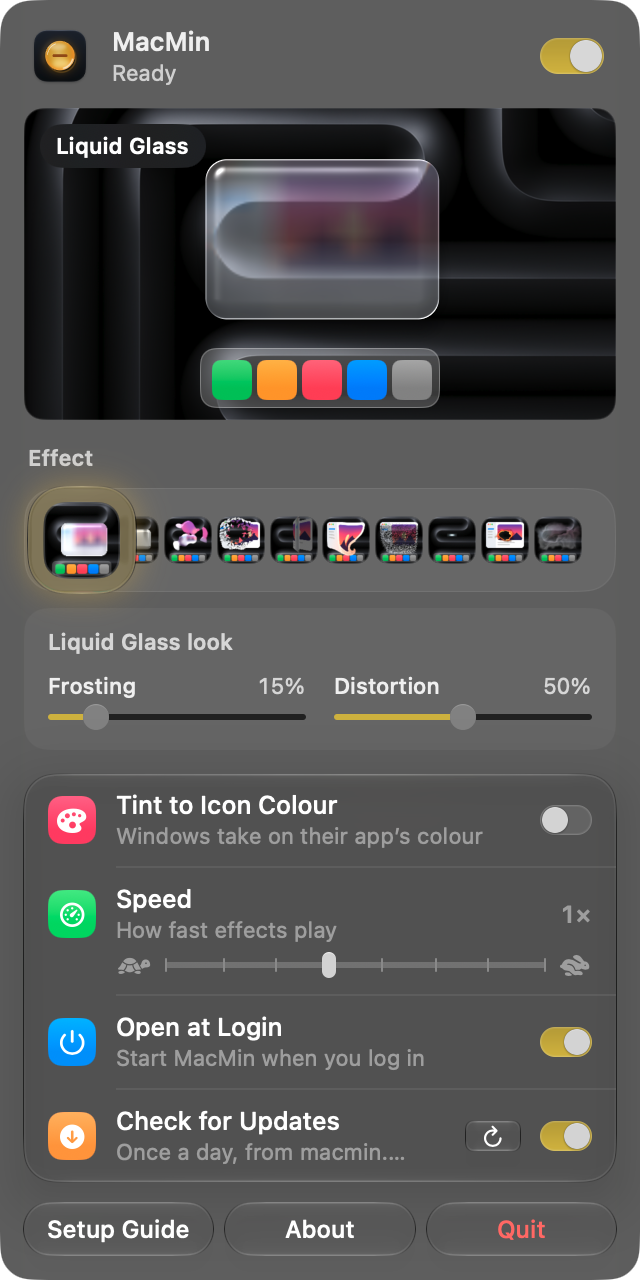
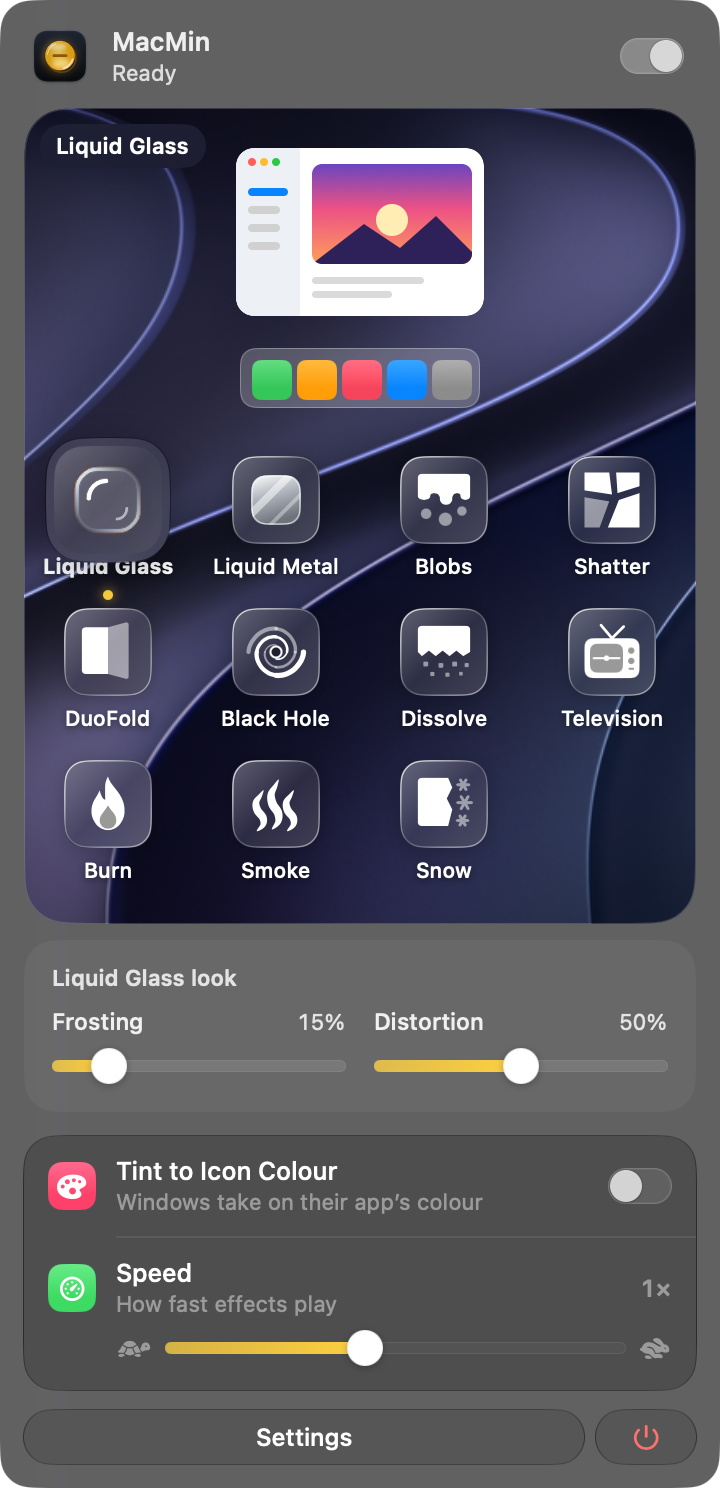
Free week, Pro key FAQ, no effect counts, updates in Settings, new menu screenshots

diff --git a/index.html b/index.html
@@ -4,13 +4,13 @@
   <meta charset="utf-8">
   <meta name="viewport" content="width=device-width, initial-scale=1">
   <title>MacMin · Minimize animations for macOS</title>
-  <meta name="description" content="Genie and Scale have been the only minimize animations on the Mac since 2001. MacMin adds eleven new ones. Liquid Glass and Liquid Metal are free, and Pro unlocks the rest for $5, once. A tiny menu bar app for macOS 14 and later.">
+  <meta name="description" content="Genie and Scale have been the only minimize animations on the Mac since 2001. MacMin adds a whole bunch of new ones. Try them all free for a week. After that, Liquid Glass and Liquid Metal stay free, and Pro unlocks the rest for $5, once. A tiny menu bar app for macOS 14 and later.">
   <meta name="color-scheme" content="light dark">
   <meta name="theme-color" content="#f0a83a">
   <link rel="icon" type="image/png" href="media/favicon.png">
   <link rel="apple-touch-icon" href="media/apple-touch-icon.png">
   <meta property="og:title" content="MacMin · Minimizing should be cool">
-  <meta property="og:description" content="Genie and Scale, since 2001. That’s it. That’s the list. MacMin adds eleven new minimize animations to your Mac. Two are free.">
+  <meta property="og:description" content="Genie and Scale, since 2001. That’s it. That’s the list. MacMin adds a whole bunch of new minimize animations to your Mac. Liquid Glass and Liquid Metal are free.">
   <meta property="og:image" content="https://macmin.studiographic.ca/media/og.jpg">
   <meta property="og:url" content="https://macmin.studiographic.ca/">
   <meta name="twitter:card" content="summary_large_image">
@@ -46,8 +46,8 @@
       </button>
       <div class="menu-drop" id="menuDrop" hidden>
         <picture>
-          <source srcset="media/menu-dark.png" media="(prefers-color-scheme: dark)">
-          <img src="media/menu-light.png" alt="The MacMin menu: a live preview of the current effect, all eleven effects in a row under a glass magnifier, a setting or two for the chosen effect, and its options: Tint to Icon Colour, Speed, Open at Login and Check for Updates" width="320" height="640">
+          <source srcset="media/menu-dark.png?v=2" media="(prefers-color-scheme: dark)">
+          <img src="media/menu-light.png?v=2" alt="The MacMin menu: a live preview of the current effect, every effect as an icon under a glass magnifier, a setting or two for the chosen effect, Tint to Icon Colour and Speed" width="360" height="744">
         </picture>
         <p>This is the whole app. It lives up here, in your menu bar.</p>
       </div>
@@ -69,10 +69,10 @@
       <p class="lede">Genie and Scale have been the only options since 2001. MacMin turns your windows to liquid glass and pours them into the Dock. Press <kbd>⌘M</kbd> or the yellow button like you always do.</p>
       <div class="cta">
         <a class="btn" href="#buy">Download MacMin · free</a>
-        <a class="btn btn-quiet" href="#effects">See all eleven</a>
+        <a class="btn btn-quiet" href="#effects">See them all</a>
       </div>
       <ul class="perks" aria-label="What you get">
-        <li>Free download</li><li>Liquid Glass and Liquid Metal, free forever</li><li>All eleven for $5, once</li><li>No subscription</li>
+        <li>Free download</li><li>Every effect free for your first week</li><li>Liquid Glass and Liquid Metal, free forever</li><li>Every effect for $5, once</li><li>No subscription</li>
       </ul>
       <p class="fine">For macOS 14 Sonoma or later · Apple silicon and Intel (<a href="#compat">will it run on mine?</a>)</p>
       <button class="send-link" type="button" data-share hidden>On your phone? Send this page to your Mac</button>
@@ -112,7 +112,7 @@
           <li class="hx-stop first plus"><span class="hx-year">2001</span><span class="hx-title">Cheetah</span><span class="hx-note">Genie and Scale debut. Honestly? Mind-blowing. In 2001.</span></li>
           <li class="hx-stop gap"><span class="hx-year">2003–2024</span><span class="hx-title">Panther to Sequoia</span><span class="hx-note">Exposé, Spaces, Dark Mode, Stage Manager, window tiling. Minimizing? Same two ways.</span></li>
           <li class="hx-stop"><span class="hx-year">2025</span><span class="hx-title">Tahoe</span><span class="hx-note">Liquid Glass, everywhere. Hit minimize and… it’s the Genie.</span></li>
-          <li class="hx-stop now plus"><span class="hx-year">Now</span><span class="hx-title">MacMin</span><span class="hx-note">Eleven new ones. Glass, chrome, fire, snow, black holes.</span></li>
+          <li class="hx-stop now plus"><span class="hx-year">Now</span><span class="hx-title">MacMin</span><span class="hx-note">A whole bunch of new ones. Glass, chrome, fire, snow, black holes.</span></li>
         </ol>
         <p class="hx-coda">Twenty-five years, two animations. <span>Bring minimize animations into the… present?</span></p>
       </div>
@@ -123,7 +123,7 @@
   <section class="win win-finder" id="effects" aria-labelledby="t-effects" data-title="Effects">
     <div class="titlebar">
       <span class="lights" aria-hidden="true"><i class="l-close"></i><i class="l-min"></i><i class="l-zoom"></i></span>
-      <h2 class="win-title" id="t-effects">Eleven ways to make an exit</h2>
+      <h2 class="win-title" id="t-effects">So many ways to make an exit</h2>
     </div>
     <div class="finder">
       <div class="sidebar">
@@ -153,7 +153,7 @@
         <div class="preview-info">
           <h3 class="stage-head"><span id="stageName">Liquid Glass</span> <i class="tag tag-free" id="stageTier">Free</i></h3>
           <p id="stageDesc">Turns to glass and pours itself into the Dock. Fancy. Frost it up, or bend the light more.</p>
-          <p class="preview-note">Each one plays when a window heads to the Dock, and backwards when it comes home. Swap any time from the menu bar. Commitment is not required. Liquid Glass and Liquid Metal come free; Pro unlocks the other nine for $5, once.</p>
+          <p class="preview-note">Each one plays when a window heads to the Dock, and backwards when it comes home. Swap any time from the menu bar. Commitment is not required. Liquid Glass and Liquid Metal come free; Pro unlocks the rest for $5, once. Your first week, every one is yours to try.</p>
           <button class="tour" id="tour" type="button" hidden>Play them all in a row</button>
         </div>
       </div>
@@ -169,8 +169,8 @@
     <div class="win-body about">
       <figure class="menu-shot">
         <picture>
-          <source srcset="media/menu-dark.png" media="(prefers-color-scheme: dark)">
-          <img src="media/menu-light.png" alt="The MacMin menu: a live preview of the current effect, all eleven effects in a row under a glass magnifier, a setting or two for the chosen effect, and its options: Tint to Icon Colour, Speed, Open at Login and Check for Updates" width="320" height="640" loading="lazy">
+          <source srcset="media/menu-dark.png?v=2" media="(prefers-color-scheme: dark)">
+          <img src="media/menu-light.png?v=2" alt="The MacMin menu: a live preview of the current effect, every effect as an icon under a glass magnifier, a setting or two for the chosen effect, Tint to Icon Colour and Speed" width="360" height="744" loading="lazy">
         </picture>
         <figcaption>The whole app is this menu. Hover to preview, click to pick, done.</figcaption>
       </figure>
@@ -230,8 +230,8 @@
 
         <h4 class="group-title">The short version</h4>
         <ul class="group promises">
-          <li><strong>Works offline.</strong> The only thing MacMin ever downloads is one tiny file from this website, once a day, to see if there’s an update. You can turn that off in the menu.</li>
-          <li><strong>No tracking in the app.</strong> No analytics, ads or accounts. Window pictures stay in memory and vanish when the window comes back. The only thing it writes down is a small log on your Mac, for fixing bugs, with no window titles and nothing you type. I just want your windows to look cool.</li>
+          <li><strong>Works offline.</strong> The only thing MacMin ever downloads is one tiny file from this website, once a day, to see if there’s an update. You can turn that off in Settings.</li>
+          <li><strong>No tracking in the app.</strong> No analytics, ads or accounts. Window pictures stay in memory and vanish when the window comes back. Besides your settings, it keeps just a few small things on your Mac: a log for fixing bugs (no window titles, nothing you type), your Pro key if you have one, and when your free week started. None of it leaves your Mac. I just want your windows to look cool.</li>
           <li><strong>Checked by Apple.</strong> MacMin is signed with a Developer ID and notarized, so Apple’s automated malware check has looked at it before you ever see it.</li>
           <li><strong>Easy to remove.</strong> Quit it from the menu and drag it to the Trash. Its two permission switches can go too (<a href="#uninstall">how</a>).</li>
         </ul>
@@ -299,7 +299,7 @@
             <img src="media/icon-176.png" alt="" width="64" height="64">
             <h3 class="plan-name">MacMin</h3>
             <p class="price">Free</p>
-            <p class="plan-lede">Liquid Glass and Liquid Metal, with every setting. No trial, no timer, no nagging. Yours to keep.</p>
+            <p class="plan-lede">Liquid Glass and Liquid Metal, with every setting. Yours to keep. Every other effect tags along free for your first seven days, then politely steps aside.</p>
             <div class="buy-actions">
               <a class="btn btn-big" id="download-link" href="download/MacMin-1.0.dmg" download>Download free</a>
             </div>
@@ -309,7 +309,7 @@
             <img src="media/icon-176.png" alt="" width="64" height="64">
             <h3 class="plan-name">MacMin <i class="tag tag-pro">Pro</i></h3>
             <p class="price">$5 <span class="price-note">CAD, or USD in the US · once</span></p>
-            <p class="plan-lede">Unlocks the other eight: Blobs, Shatter, DuoFold, Black Hole, Dissolve, Television, Burn and Smoke. Same app, nothing new to install.</p>
+            <p class="plan-lede">Unlocks every other effect: fire, snow, smoke, black holes and the rest, plus any new ones I add later. Same app, nothing new to install.</p>
             <ul class="perks perks-inline" aria-label="What Pro gets you">
               <li>Pay once, no subscription</li><li>Every Mac you own</li><li>Every future effect too</li>
             </ul>
@@ -318,7 +318,7 @@
             </div>
           </div>
         </div>
-        <p class="buy-lede">Start free. If the glass makes you smile and you want fire, snow and black holes too, Pro is less than a coffee and cheaper than 25 more years of Genie.</p>
+        <p class="buy-lede">Start free, with every effect unlocked for your first week, so you can find out if you’re a fire person or a snow person. After that, if the glass makes you smile and you want fire, snow and black holes too, Pro is less than a coffee and cheaper than 25 more years of Genie.</p>
         <p class="phone-note" data-coarse hidden>On your phone? MacMin installs on a Mac, so open this page there to download. You can buy Pro from anywhere.</p>
         <p class="fine">Questions about Pro? Email <a href="mailto:macmin@studiographic.ca">macmin@studiographic.ca</a>.</p>
 
@@ -379,24 +379,26 @@
       <div class="faq-groups">
         <div class="faq-group">
           <h4>Free and Pro</h4>
-          <details><summary>What’s free?</summary><p>MacMin itself, Liquid Glass and Liquid Metal, and every setting they have. Forever. No trial, no ads, no “upgrade now” pop-ups every time you minimize.</p></details>
-          <details><summary>What does Pro get me?</summary><p>The other nine effects: Blobs, Shatter, DuoFold, Black Hole, Dissolve, Television, Burn, Smoke and Snow, plus any new ones I add later. $5, once.</p></details>
-          <details><summary>Is Pro a subscription?</summary><p>Nope, never. You pay $5 once and it’s yours, including every update that ever comes out. No renewals, no “your trial has ended.”</p></details>
+          <details><summary>What’s free?</summary><p>MacMin itself, Liquid Glass and Liquid Metal, and every setting they have. Forever. No ads, no “upgrade now” pop-ups every time you minimize.</p></details>
+          <details><summary>Can I try Pro first?</summary><p>Yes. For seven days from the first time you open MacMin, every effect is unlocked. No sign-up, no card, nothing to cancel. When the week’s up, MacMin goes back to Liquid Glass and Liquid Metal, which stay free forever. Get Pro whenever you like to keep the rest.</p></details>
+          <details><summary>What does Pro get me?</summary><p>Every effect that isn’t Liquid Glass or Liquid Metal, like Blobs, Shatter, Black Hole, Burn and Snow, plus any new ones I add later. $5, once.</p></details>
+          <details id="unlock"><summary>I bought Pro. How do I unlock it?</summary><p>Your Pro key is on the thank-you page and in your receipt email. Click the unlock link there, or copy the key (it starts with MACMIN-PRO), then open MacMin’s menu, click Settings, choose Enter Key and paste it in. Got another Mac? Paste the same key there too.</p></details>
+          <details><summary>Is Pro a subscription?</summary><p>Nope, never. You pay $5 once and it’s yours, including every update that ever comes out. No renewals, no “your plan has expired.”</p></details>
           <details><summary>Can I put it on my other Macs?</summary><p>Yes! The free version goes on as many Macs as you like, and one Pro purchase covers every Mac you own.</p></details>
           <details><summary>Why isn’t it on the Mac App Store?</summary><p>App Store apps aren’t allowed to notice when you press minimize in other apps, which is kind of the whole point of MacMin. So it lives here instead, signed and notarized with Apple the same way.</p></details>
-          <details id="update"><summary>How do I get updates?</summary><p>They’re free for everyone, forever. MacMin checks this website once a day and tells you when there’s a new version. You can also check right away with the refresh button next to Check for Updates in the menu, or turn automatic checks off.</p><p>To install one, download the newest version from <a href="#buy">this page</a>, quit MacMin, drag the new one into Applications and replace the old one. Pro stays unlocked.</p></details>
+          <details id="update"><summary>How do I get updates?</summary><p>They’re free for everyone, forever. MacMin checks this website once a day and tells you in its menu when there’s a new version. To check right away, open Settings from the menu and click Check Now. You can turn automatic checks off there too.</p><p>To install one, download the newest version from <a href="#buy">this page</a>, quit MacMin, drag the new one into Applications and replace the old one. Pro stays unlocked.</p></details>
         </div>
         <div class="faq-group">
           <h4>Permissions</h4>
           <details><summary>macOS asked me to allow Screen Recording again. Why?</summary><p>Since macOS 15 Sequoia, macOS every so often asks you to re-confirm any app that can take pictures of the screen, not just MacMin. The wording is alarming, but it’s routine. Click Allow and carry on.</p></details>
-          <details><summary>It stopped working after an update.</summary><p>macOS sometimes forgets a permission when an app changes. Open System Settings › Privacy &amp; Security › Accessibility, switch MacMin off and on again, and you’re back in business.</p></details>
-          <details id="uninstall"><summary>How do I uninstall it?</summary><p>Quit MacMin from its menu and drag it from Applications to the Trash. If you want to tidy up, remove it from System Settings › Privacy &amp; Security › Accessibility and Screen Recording too. I’ll miss you.</p></details>
+          <details><summary>It stopped working after an update.</summary><p>macOS sometimes forgets a permission when an app changes. Open System Settings › Privacy &amp; Security › Accessibility, switch MacMin off and on again, and you’re back in business. If it already looks on, click “Already on? Restart MacMin” in the MacMin menu.</p></details>
+          <details id="uninstall"><summary>How do I uninstall it?</summary><p>Quit MacMin from its menu and drag it from Applications to the Trash. If you want to tidy up, remove it from System Settings › Privacy &amp; Security › Accessibility and Screen Recording too. Your settings and a note of when your free week started stay behind, and they take up next to no space. I’ll miss you.</p></details>
         </div>
         <div class="faq-group">
           <h4>Everything else</h4>
           <details><summary>Wait, Apple really never added any others?</summary><p>Officially, nope. Genie and Scale, since Mac OS X 10.0 in 2001. There’s a secret third one called “Suck” you can unlock with a Terminal command, but it’s been hiding in there for a reason.</p></details>
           <details><summary>Will it slow my Mac down?</summary><p>No. MacMin sits quietly until you minimize something, uses your graphics chip for about a second, then goes back to napping.</p></details>
-          <details><summary>An effect looks a bit choppy.</summary><p>Very large or high-resolution displays make every effect work harder, especially on older Intel Macs. Blobs, Burn, Smoke and the two liquid effects do the most work. Try a lighter one like Television, Shatter or Dissolve, or nudge the Speed slider up so it finishes sooner.</p></details>
+          <details><summary>An effect looks a bit choppy.</summary><p>Very large or high-resolution displays make every effect work harder, especially on older Intel Macs. Blobs, Burn, Smoke, Liquid Glass and Liquid Metal do the most work. Try a lighter one like Television, Shatter or Dissolve, or nudge the Speed slider up so it finishes sooner.</p></details>
           <details><summary>Does “Minimize all” (⌥⌘M) get the effect?</summary><p>Not yet. Minimizing every window at once is still left to macOS (and the Genie).</p></details>
           <details><summary>Something’s not right. Who do I talk to?</summary><p>Me! Email <a href="mailto:macmin@studiographic.ca">macmin@studiographic.ca</a> and tell me what happened and which effect you were using. Attaching its log helps a lot: in Finder, choose Go › Go to Folder, paste <code>~/Library/Logs</code> and send me <b>MacMin.log</b>.</p></details>
         </div>
@@ -408,7 +410,7 @@
   <section class="alert" aria-labelledby="t-close" id="closing">
     <img src="media/icon-128.png" alt="" width="64" height="64">
     <h2 id="t-close">Twenty-five years was long enough.</h2>
-    <p>Free to download. All eleven for $5, once, on every Mac you own.</p>
+    <p>Free to download, with every effect free for your first week. Keep them all for $5, once, on every Mac you own.</p>
     <div class="alert-buttons">
       <button class="btn btn-quiet" type="button" id="keepGenie">Keep the Genie</button>
       <a class="btn" href="#buy">Download free</a>

diff --git a/app.js b/app.js
@@ -50,7 +50,7 @@ $$("[data-progress]").forEach((bar) => {
   v.addEventListener("timeupdate", () => { if (v.duration) bar.style.setProperty("--t", (v.currentTime / v.duration).toFixed(3)); });
 });
 
-// ---- Effects window: one preview, eleven to pick from; runs through them until you pick one ----
+// ---- Effects window: one preview, every effect to pick from; runs through them until you pick one ----
 const stage = $("#stage");
 const buttons = $$(".picker button");
 let showEffect = () => {};

diff --git a/PRODUCT.md b/PRODUCT.md
@@ -42,7 +42,8 @@ This site (macmin.studiographic.ca) explains what MacMin does and how it works, 
 
 ## Operating Context
 
-- **Model:** free download with Liquid Glass and Liquid Metal. Pro unlocks the other nine effects (and future ones) for $5 once (CAD, or USD for US buyers). Pro checkout is a Stripe Payment Link (test mode for now); licensing is not set up yet.
+- **Model:** free download with Liquid Glass and Liquid Metal. Every effect is unlocked for 7 days from first launch (a local free week; no account, no server), then the app goes back to the free ones unless Pro is bought. Pro unlocks every other effect (and future ones) for $5 once (CAD, or USD for US buyers). Pro checkout is a Stripe Payment Link (test mode for now).
+- **Pro key:** a signed key (starts `MACMIN-PRO`), given on the thank-you page and in the receipt email, with a `macmin://unlock` link. It's pasted in Settings › Enter Key; the same key works on every Mac. The app side is built; the thank-you page and receipt still need to deliver the key.
 - **Download:** the free DMG is linked at `download/<file>` from `version.json`.
 - **Download:** a notarized, Developer ID–signed DMG, with a published SHA-256 checksum.
 - **Updates:** the app checks `version.json` on this site once a day, and the user can turn that off.
@@ -56,10 +57,14 @@ This site (macmin.studiographic.ca) explains what MacMin does and how it works, 
 ## Capabilities and Constraints
 
 - **Pricing promises:** free tier forever with no nagging; Pro is $5 once, every Mac you own, lifetime updates, no subscription.
+- **Free week:** every effect for 7 days from first launch, then back to Liquid Glass and Liquid Metal. It's tracked on the Mac only and made hard to reset, not impossible, so never claim it can't be reset or say how. Don't call the free tier "no trial" any more.
+- **No effect counts:** never say how many effects there are (or how many Pro adds). More are coming, so name examples or say "every effect" instead.
 - **Effect names are fixed:** Blobs (not Goo), Dissolve (not Sand) and Television (not TV Off).
 - **Privacy claims must stay accurate:**
   - Nothing is saved or sent.
   - The only network call is the update check.
+  - Stored locally: settings, a bug log (no window titles or typing), the Pro key, and the free-week record (Keychain, preferences, a file). None of it leaves the Mac.
+  - Update checks and Check Now live in the Settings window, not the menu.
   - Typed input is never kept or recorded.
   - Don't claim things the app can't guarantee, such as "no recording indicator".
 - **Contact:** macmin@studiographic.ca.

diff --git a/DESIGN.md b/DESIGN.md
@@ -159,7 +159,7 @@ components:
 
 **Creative North Star: "The Desktop Itself"**
 
-The page does not describe a Mac; it is one. A single authored wallpaper sits fixed behind everything, a translucent menu bar is the navigation, and every section of content is a real-looking macOS window with traffic lights and a centred title. Windows are titled like the apps they borrow from (a history `.rtf`, Finder, System Settings, About This Mac, an installer, Help) and their internals follow those apps' anatomy: sidebars with vibrancy, grouped settings rows, a QuickTime player bar. The product itself performs inside the windows: the Liquid Glass clip plays in a QuickTime-style window, and the Effects window previews all eleven. Traffic lights are decoration; nothing on the page minimizes.
+The page does not describe a Mac; it is one. A single authored wallpaper sits fixed behind everything, a translucent menu bar is the navigation, and every section of content is a real-looking macOS window with traffic lights and a centred title. Windows are titled like the apps they borrow from (a history `.rtf`, Finder, System Settings, About This Mac, an installer, Help) and their internals follow those apps' anatomy: sidebars with vibrancy, grouped settings rows, a QuickTime player bar. The product itself performs inside the windows: the Liquid Glass clip plays in a QuickTime-style window, and the Effects window previews every effect. Traffic lights are decoration; nothing on the page minimizes.
 
 Density is that of a working desktop, not a marketing page. Windows overlap at wide sizes the way someone actually arranges them, and content inside each window is set as native UI: system type, hairline dividers, blue selection, one yellow default button. There are no cards outside window anatomy and no borders beyond the hairlines a Mac draws itself. Light and dark follow the visitor's system setting with no toggle, as real windows do.
 
